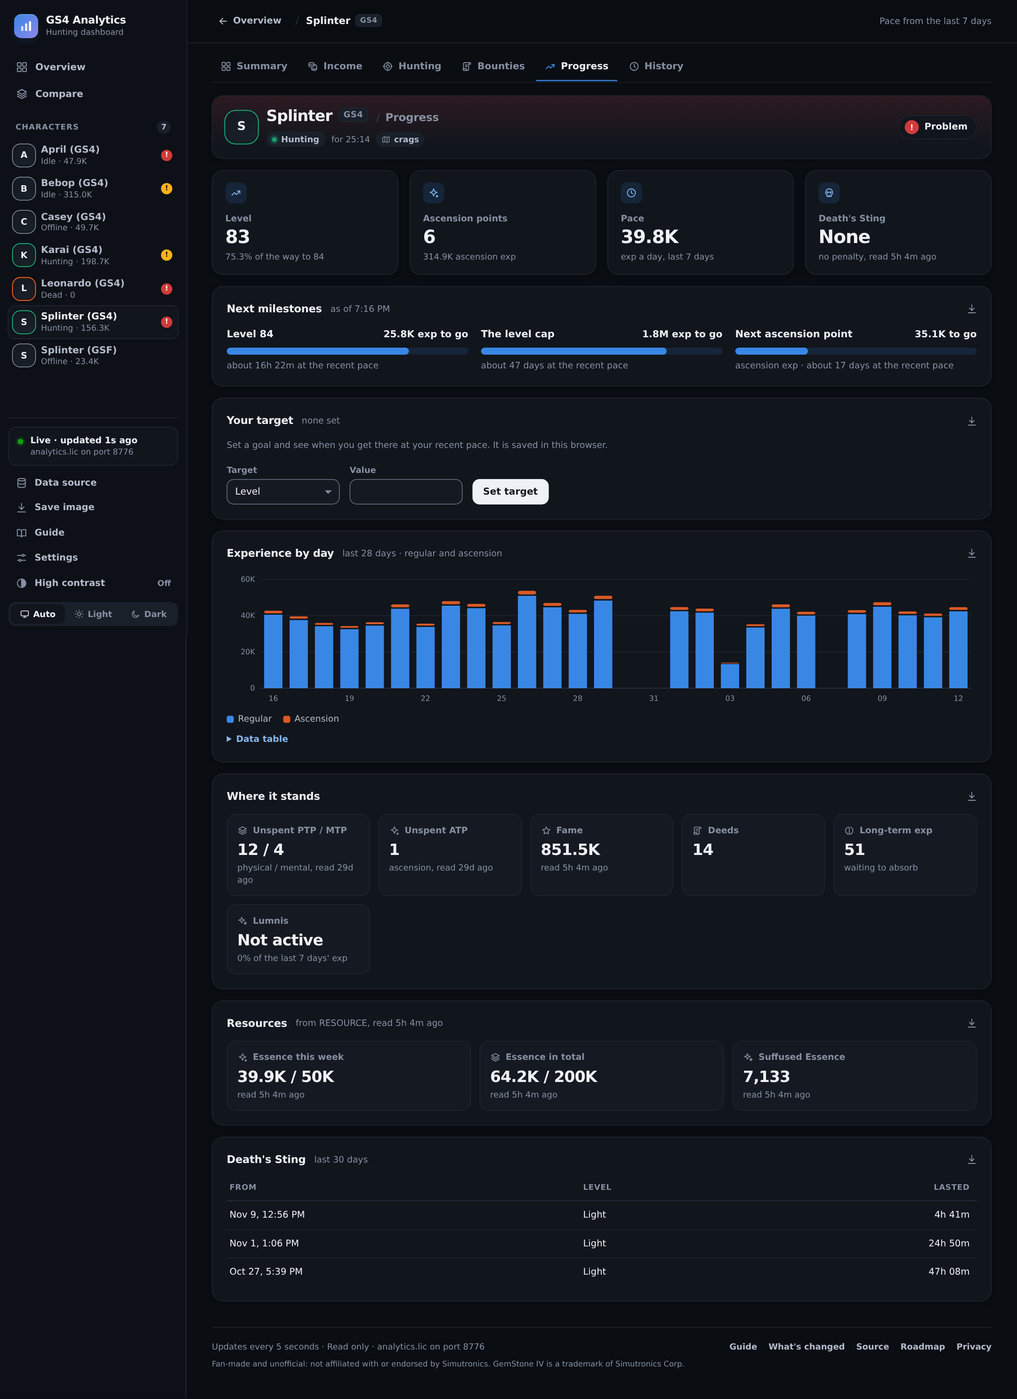
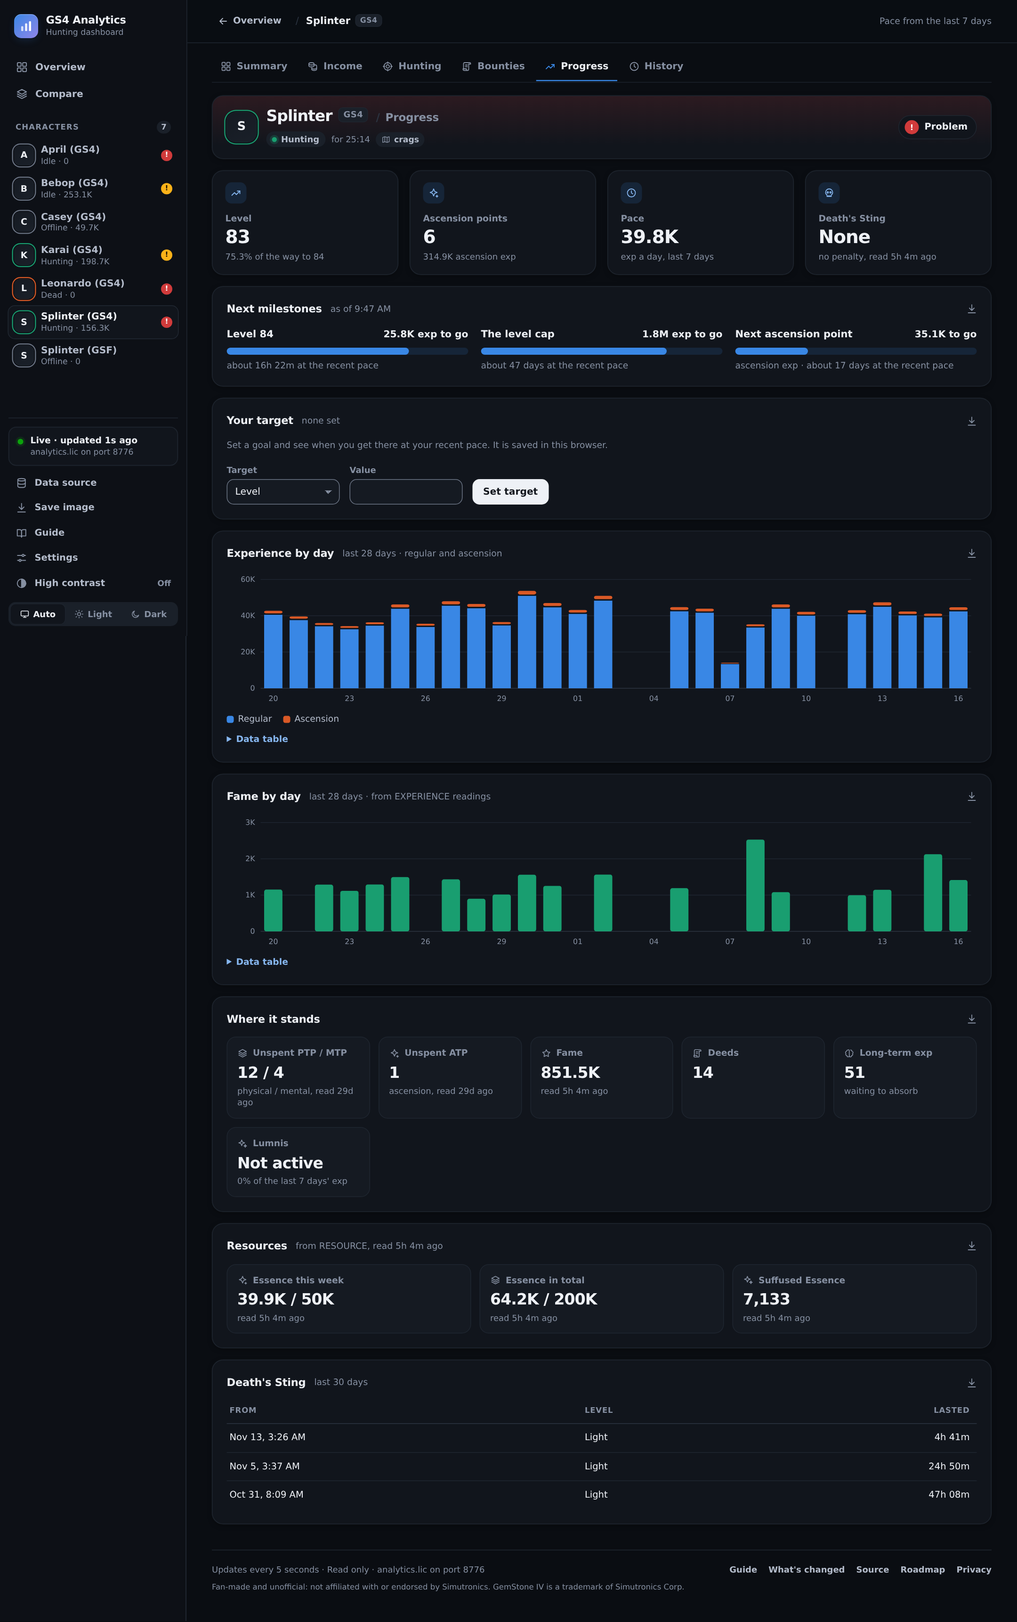
fix(aggregate): fame by day from the readings, and no fame per cycle
Fame rises as experience is absorbed, resting too, and a cycle took fame
only from a reading in the two minutes before its boundary. Rest scripts
type EXPERIENCE as a rest starts, so a hunt never had an end reading and
most rests had no start: on a three-day, two-character database the daily
fame from cycles came to 0.1 to 3.4% of the real change.

buildDaily's fame is now each day's last EXPERIENCE reading less the last
one before it, charted on the Progress page. History drops its Fame column.

diff --git a/site/guide/index.html b/site/guide/index.html
@@ -197,7 +197,7 @@
             <b>Bank checks</b> list every <code>BANK ACCOUNT</code> listing that found your banks at a different total from the one tracked through the teller, and by how much: a deposit by another character, a note or a transfer moves the banks without a teller line being read. Silver per hour counts those differences like any other change, so they're shown rather than hidden. Under <b>Locksmith pool</b>, how many of its boxes the pool holds, how that changed over the range, the peak, and how many boxes a full pool turned away, by town.</li>
           <li><b>Hunting</b>: every creature: kills, silver a kill, boxes per 100 kills, the profile and the last kill. Under <b>Combat</b>, the damage the character dealt to each kind of creature, its credited kills and assists, damage per creature, per kill and per hit, and per hour hunting (see <a href="#combat">Combat</a>).</li>
           <li><b>Bounties</b>: by type: how many taken and done, success, average time, and silver, exp and bounty points each; and how task offers ended.</li>
-          <li><b>Progress</b>: level (or training points past the cap) and ascension points with ETAs at your recent pace, experience by day split into regular and ascension, unspent training points, fame, deeds, Lumnis, Death's Sting with how long each lasted (from the death to the moment it faded), and your resources from <code>RESOURCE</code> (your profession's resource this week and in total, suffused, Voln favor, covert arts charges, shadow essence), each with when it was read.
+          <li><b>Progress</b>: level (or training points past the cap) and ascension points with ETAs at your recent pace, experience by day split into regular and ascension, fame by day, unspent training points, fame, deeds, Lumnis, Death's Sting with how long each lasted (from the death to the moment it faded), and your resources from <code>RESOURCE</code> (your profession's resource this week and in total, suffused, Voln favor, covert arts charges, shadow essence), each with when it was read.
             Set <b>your own target</b> there (a level, a number of training points past the cap, or ascension points) to see how much is left and when you'll get there; it's saved in this browser.</li>
           <li><b>History</b>: every hunt, rest, death and idle stretch, newest first, with a filter and a search.</li>
         </ul>
@@ -381,7 +381,7 @@ alerts:                                # in-game and Discord alerts
           <li><b>Midnight</b> is in the time zone of the browser the dashboard is open in. The text reports and the daily digest use the time zone of the computer Lich runs on; the dashboard warns when the two differ. Hunts, rests and idle time are split at midnight, so a session that runs past it counts toward each day for its own part.</li>
           <li><b>Silver per hour</b> comes from your bank balance, so it counts everything you deposit, whatever its source. It's how much the bank total went up in the range, divided by the hours the script ran in it: hunting, resting and idle together. Time logged out doesn't count against you. <b>Experience per hour</b> works the same way, from your total experience. Per hunting hour divides by hunting time only. A hunt or rest still going counts up to now, to the minute, so the figures move as you play. A figure needs a few minutes behind it before it's shown: per hour shows <code>--</code> until the script has run 10 minutes in the range. Hunt 2 hours and rest 1 hour, bank 300,000 silver, and Today shows 100,000 silver per hour, on the overview's card and on the character's Summary alike.</li>
           <li><b>Creature silver</b> counts what a corpse had when you searched it. Coins picked up off the floor (<code>GET COINS</code>, as eloot does) are their own source, "Coins off the floor". A creature that melts or crumbles when searched drops its coins, and the game gathers them for you; those are the corpse's silver, counted once.</li>
-          <li><b>Fame</b> is only as fresh as the last <code>EXPERIENCE</code> output Lich saw, and a hunt or rest gets fame only from output seen in the last two minutes. To see fame per hunt and rest, have your rest script run <code>EXPERIENCE</code>. The Progress page says when each reading was taken.</li>
+          <li><b>Fame</b> is only as fresh as the last <code>EXPERIENCE</code> output Lich saw; the Progress page says when it was read. Fame by day is each day's last reading less the last one before it, so a day with no reading shows none, and fame from the night before a day's first reading counts on that day. Have your rest script run <code>EXPERIENCE</code> to keep it current. Fame isn't shown per hunt or rest: it rises as experience is absorbed, resting too, so it would need a reading at both ends of every one.</li>
           <li><b>Death's Sting</b> runs from the death to the moment the game says it has faded. Its level is the last <code>EXPERIENCE</code> reading in between; if none came, the level shows as "not read".</li>
           <li><b>A hunt that ends with no rest</b>, for example when you <code>;kill</code> the hunting script, is recorded with the reason "hunt stopped". It isn't counted as a crash. A crash is a hunt, rest or idle stretch still open when the script next starts, because Lich, the computer or the connection went down. The script closes it then, at the time its login was last seen or at the next stretch's start, whichever came first, and marks it "crashed" (a rest keeps the reason it started for, so a crash during one with a reason isn't counted). When it ends at the next stretch's start, it takes its closing experience from there, so what it gained still counts.</li>
           <li><b>Bounties</b> are stored once hunting starts on them; a task you remove at the taskmaster still shows in <b>task offers</b>. Progress follows the game's "N more" text.</li>

diff --git a/site/js/aggregate/details.js b/site/js/aggregate/details.js
@@ -289,7 +289,7 @@ export function buildHistory(conn, id, range, { now, ranges, limit = 400 }) {
   const who = parseWho(id);
   const { label, from } = window(range, now, ranges);
   const rows = conn.all('SELECT cycle_id, cycle_type, start_time, end_time, duration_seconds, rest_reason, profile, ' +
-    'exp_total_start, exp_total_end, fame_start, fame_end FROM cycles WHERE game = ? AND character = ? ' +
+    'exp_total_start, exp_total_end FROM cycles WHERE game = ? AND character = ? ' +
     'AND start_time >= ? AND start_time <= ? ORDER BY start_time DESC LIMIT ?', ...who, from, now, limit);
   const silver = new Map();
   if (rows.length && hasColumn(conn, 'bank_snapshots', 'cycle_id')) {
@@ -308,7 +308,7 @@ export function buildHistory(conn, id, range, { now, ranges, limit = 400 }) {
       stale: r.end_time == null && now - toI(r.start_time) >= STALE_OPEN,
       seconds: r.end_time != null ? toI(r.duration_seconds) : now - toI(r.start_time) >= STALE_OPEN ? null : Math.max(0, now - toI(r.start_time)),
       reason: r.rest_reason || null, profile: r.profile ? shortProfile(r.profile, who[1]) : null,
-      exp: gain(r.exp_total_start, r.exp_total_end), fame: gain(r.fame_start, r.fame_end),
+      exp: gain(r.exp_total_start, r.exp_total_end),
       silver: silver.has(r.cycle_id) ? silver.get(r.cycle_id) : null,
     })),
     truncated: rows.length >= limit,
@@ -319,11 +319,16 @@ export function buildHistory(conn, id, range, { now, ranges, limit = 400 }) {
 
 // Experience gained per local day for the last +days+ days, per character.
 // A cycle's gain counts on the day it started (cycles never span midnight).
+// Fame comes from the EXPERIENCE readings instead: it rises as experience is
+// absorbed, resting too, so a cycle's fame is known only when a reading was
+// typed at both its ends, and rest scripts don't. A day's fame is its last
+// reading less the last one before it (or its first, with none before).
 export function buildDaily(conn, ids, { now, days = 28 }) {
   const today = dayOf(now);
   const first = addDays(today, -(days - 1));
   const from = midnight(first);
   const split = hasColumn(conn, 'cycles', 'exp_asc_start');
+  const readings = hasColumn(conn, 'progress', 'fame');
   const labels = [];
   for (let i = 0; i < days; i++) labels.push(dayStr(addDays(first, i)));
   const index = new Map(labels.map((l, i) => [l, i]));
@@ -331,7 +336,7 @@ export function buildDaily(conn, ids, { now, days = 28 }) {
   for (const id of ids) {
     const who = parseWho(id);
     const exp = new Array(days).fill(0), asc = new Array(days).fill(0), fame = new Array(days).fill(0), hunt = new Array(days).fill(0);
-    const rows = conn.all('SELECT cycle_type, start_time, duration_seconds, exp_total_start, exp_total_end, fame_start, fame_end' +
+    const rows = conn.all('SELECT cycle_type, start_time, duration_seconds, exp_total_start, exp_total_end' +
       (split ? ', exp_asc_start, exp_asc_end' : '') + ' FROM cycles WHERE game = ? AND character = ? AND start_time >= ? AND start_time <= ?',
     ...who, from, now);
     for (const r of rows) {
@@ -339,8 +344,19 @@ export function buildDaily(conn, ids, { now, days = 28 }) {
       if (i == null) continue;
       if (r.exp_total_start != null && r.exp_total_end != null) exp[i] += Math.max(0, toI(r.exp_total_end) - toI(r.exp_total_start));
       if (split && r.exp_asc_start != null && r.exp_asc_end != null) asc[i] += Math.max(0, toI(r.exp_asc_end) - toI(r.exp_asc_start));
-      if (r.fame_start != null && r.fame_end != null) fame[i] += Math.max(0, toI(r.fame_end) - toI(r.fame_start));
       if (r.cycle_type === 'hunt') hunt[i] += toI(r.duration_seconds);
+    }
+    if (readings) {
+      const base = new Map(), last = new Map();
+      let prev = null;
+      for (const r of conn.all('SELECT timestamp, fame FROM progress WHERE game = ? AND character = ? AND fame IS NOT NULL ' +
+        'AND timestamp <= ? ORDER BY timestamp', ...who, now)) {
+        const day = dateOf(toI(r.timestamp)), f = toI(r.fame);
+        if (!base.has(day)) base.set(day, prev ?? f);
+        last.set(day, f);
+        prev = f;
+      }
+      labels.forEach((l, i) => { if (last.has(l)) fame[i] = Math.max(0, last.get(l) - base.get(l)); });
     }
     series[id] = { exp, ascension: split ? asc : null, regular: split ? exp.map((v, i) => Math.max(0, v - asc[i])) : null, fame, hunt_s: hunt };
   }

diff --git a/site/js/ui/sections.js b/site/js/ui/sections.js
@@ -291,6 +291,11 @@ export function progressHtml(d, width, ui) {
     : [{ name: 'Experience', values: s.exp, color: '--k1' }];
   var chart = '<section class="card">' + head('Experience by day', 'last ' + dl.labels.length + ' days' + (dl.split ? ' ' + DOT + ' regular and ascension' : '')) +
     barChart('progress-daily', dl.labels, series, short, width, 'Experience by day') + '</section>';
+  // From the EXPERIENCE readings: a day with none shows nothing
+  if (s.fame.some(function (v) { return v > 0; })) {
+    chart += '<section class="card">' + head('Fame by day', 'last ' + dl.labels.length + ' days ' + DOT + ' from EXPERIENCE readings') +
+      barChart('progress-fame', dl.labels, [{ name: 'Fame', values: s.fame, color: '--k3' }], short, width, 'Fame by day') + '</section>';
+  }
   var stings = p.stings.length ? '<section class="card">' + head('Death\'s Sting', 'last 30 days') + scroll('Death\'s Sting') +
     '<table><thead><tr><th>From</th><th class="l">Level</th><th>Lasted</th></tr></thead><tbody>' + p.stings.map(function (x) {
       return '<tr><td>' + stamp(x.from) + '</td><td class="l">' + (x.level == null ? '<span class="muted">not read</span>' : esc(x.level)) + '</td><td>' + (x.to ? dur(x.seconds) : dur(x.seconds) + ' so far') + '</td></tr>';
@@ -299,12 +304,12 @@ export function progressHtml(d, width, ui) {
 }
 
 // ---- history ------------------------------------------------------------------
-// Which columns have anything in them (an older database has no fame or per-cycle silver)
+// Which columns have anything in them (an older database has no per-cycle silver)
 export function historyCols(cycles) {
-  return { fame: cycles.some(function (c) { return c.fame != null; }), silver: cycles.some(function (c) { return c.silver != null; }) };
+  return { silver: cycles.some(function (c) { return c.silver != null; }) };
 }
 export function historyRows(cycles, filter) {
-  var cols = historyCols(cycles), span = 5 + (cols.fame ? 1 : 0) + (cols.silver ? 1 : 0);
+  var cols = historyCols(cycles), span = 5 + (cols.silver ? 1 : 0);
   var q = String(filter.q || '').toLowerCase();
   var shown = cycles.filter(function (c) {
     if (filter.type !== 'all' && c.type !== filter.type) return false;
@@ -314,7 +319,7 @@ export function historyRows(cycles, filter) {
   return { count: shown.length, html: shown.map(function (c) {
     return '<tr><td>' + stamp(c.start) + '</td><td class="l"><span class="state st-' + esc(c.type) + '"><i style="background:' + css(STATE_COL[c.type] || '--gray') + '"></i>' +
       esc(STATE_NAME[c.type] || c.type) + '</span></td><td>' + (c.stale ? '<span class="muted">ended, time unknown</span>' : c.end == null ? dur(c.seconds) + ' so far' : dur(c.seconds)) + '</td><td class="l wrapcell">' +
-      esc(c.reason || c.profile || '') + '</td><td>' + (c.exp == null ? '--' : short(c.exp)) + '</td>' + (cols.fame ? '<td>' + (c.fame == null ? '--' : short(c.fame)) + '</td>' : '') +
+      esc(c.reason || c.profile || '') + '</td><td>' + (c.exp == null ? '--' : short(c.exp)) + '</td>' +
       (cols.silver ? '<td>' + (c.silver == null ? '--' : short(c.silver)) + '</td>' : '') + '</tr>';
   }).join('') };
 }
@@ -328,7 +333,7 @@ export function historyHtml(d, filter) {
       opt('dead', 'Deaths') + opt('idle', 'Idle') + '</select></label>' +
     '<label class="fl grow"><span>Search reasons and profiles</span><input id="histQ" type="search" autocomplete="off" value="' + esc(filter.q || '') + '" placeholder="e.g. encumbered"></label>' +
     '<span class="fl-count" id="histCount" role="status">' + plural(rows.count, 'row') + (d.truncated ? ' (the newest ' + d.cycles.length + ')' : '') + '</span></div>' +
-    scroll('Every hunt and rest') + '<table><thead><tr><th>Started</th><th class="l">What</th><th>Length</th><th class="l">Reason or profile</th><th>Exp</th>' + (cols.fame ? '<th>Fame</th>' : '') + (cols.silver ? '<th>Silver</th>' : '') + '</tr></thead>' +
+    scroll('Every hunt and rest') + '<table><thead><tr><th>Started</th><th class="l">What</th><th>Length</th><th class="l">Reason or profile</th><th>Exp</th>' + (cols.silver ? '<th>Silver</th>' : '') + '</tr></thead>' +
     '<tbody id="histBody">' + rows.html + '</tbody></table></div></section>';
 }
 

diff --git a/test/details.test.js b/test/details.test.js
@@ -93,6 +93,32 @@ test('daily: 28 days ending today, adding up to the cycles that started in them'
   assert.ok(d.series[ID].regular.every((v, i) => v + d.series[ID].ascension[i] === d.series[ID].exp[i]));
 });
 
+test('daily fame: each day\'s last EXPERIENCE reading less the last one before it, not the cycles', () => {
+  const d = new SQL.Database();
+  try {
+    d.run('CREATE TABLE progress (game TEXT, character TEXT, timestamp INTEGER, fame INTEGER)');
+    // cycle fame the script wrote from stale readings: not used
+    d.run('CREATE TABLE cycles (cycle_id TEXT, game TEXT, character TEXT, cycle_type TEXT, start_time INTEGER, end_time INTEGER, ' +
+      'duration_seconds INTEGER, exp_total_start INTEGER, exp_total_end INTEGER, fame_start INTEGER, fame_end INTEGER)');
+    const at = (day, hour) => Math.floor(new Date(`2027-03-${day}T${hour}:00:00`).getTime() / 1000);
+    const read = (t, fame) => d.run("INSERT INTO progress VALUES ('GS3', 'Rocksteady', ?, ?)", [t, fame]);
+    read(at('08', '22'), 400);  // before the window's last three days: the base for none of them
+    read(at('10', '10'), 500);
+    read(at('10', '15'), null); // a heartbeat row: no reading
+    read(at('10', '20'), 650);
+    // the 11th: no reading
+    read(at('12', '09'), 700);
+    read(at('12', '23'), 900);
+    d.run("INSERT INTO cycles VALUES ('c1', 'GS3', 'Rocksteady', 'rest', ?, ?, 600, 0, 0, 100, 99999)", [at('12', '10'), at('12', '10') + 600]);
+    const now = at('12', '23') + 1800;
+    const f = buildDaily(new Conn(d), ['GS3:Rocksteady'], { now, days: 5 }).series['GS3:Rocksteady'].fame;
+    // the 8th: 400 with none before; the 10th: 650 - 400; the 12th: 900 - 650
+    assert.deepEqual(f, [0, 0, 250, 0, 250]);
+  } finally {
+    d.close();
+  }
+});
+
 test('progress, before the cap: level and the share of it done, from the last row', () => {
   const p = buildProgress(conn, ID, { now });
   const last = one('SELECT level, exp FROM progress WHERE game = ? AND character = ? ORDER BY timestamp DESC LIMIT 1', ...W);

diff --git a/site/guide/changes.html b/site/guide/changes.html
@@ -58,6 +58,12 @@
     <!-- Newest first. One section per release, id="v<version>" (script releases) or
          id="d<yyyy-mm-dd>" (a dashboard-only change). Mark each item Script or Dashboard.
          Write for players: what changed, and what to do about it, if anything. -->
+    <section id="d2026-11-16-fame" class="card">
+      <h2>November 16, 2026 &middot; dashboard</h2>
+      <ul>
+        <li><span class="chip">Dashboard</span> The Progress page has <b>fame by day</b>, from your <code>EXPERIENCE</code> readings. History no longer has a Fame column: fame rises as experience is absorbed, resting too, so a hunt's or rest's fame is known only when <code>EXPERIENCE</code> was typed right at both its ends, which rest scripts don't do. The column showed a number for a few cycles, and too little for most.</li>
+      </ul>
+    </section>
     <section id="d2026-11-12-live" class="card">
       <h2>November 12, 2026 &middot; dashboard</h2>
       <ul>

diff --git a/docs/data-contract.md b/docs/data-contract.md
@@ -24,7 +24,7 @@ URL hash, the saved image's file name) and maps back at its edges (`shown`, `sho
 
 | Table | Columns used | For |
 |---|---|---|
-| `cycles` | `game`, `character`, `cycle_type` (`hunt`/`rest`/`idle`/`dead`), `start_time`, `end_time` (NULL while open), `duration_seconds`, `rest_reason` (on a hunt, why it ended; `hunt stopped` for one that ended with no rest; `crashed` on any cycle the script found still open at its next start, unless it had a reason), `profile`, `exp_total_start`, `exp_total_end`, `exp_field_start`, `exp_field_end`, `exp_field_max`, `encumbrance_start`; and for the detail pages `cycle_id`, `fame_start`, `fame_end`, `exp_asc_start`, `exp_asc_end` (schema 8) | State, timeline, today's figures, pace, trends, hunting grounds, labels; History; experience by day, regular and ascension apart |
+| `cycles` | `game`, `character`, `cycle_type` (`hunt`/`rest`/`idle`/`dead`), `start_time`, `end_time` (NULL while open), `duration_seconds`, `rest_reason` (on a hunt, why it ended; `hunt stopped` for one that ended with no rest; `crashed` on any cycle the script found still open at its next start, unless it had a reason), `profile`, `exp_total_start`, `exp_total_end`, `exp_field_start`, `exp_field_end`, `exp_field_max`, `encumbrance_start`; and for the detail pages `cycle_id`, `exp_asc_start`, `exp_asc_end` (schema 8); `fame_start` and `fame_end` are written but not read (fame by day comes from `progress`) | State, timeline, today's figures, pace, trends, hunting grounds, labels; History; experience by day, regular and ascension apart |
 | `bank_snapshots` | `game`, `character`, `timestamp`, `bank_name` (`'__total__'` rows only), `delta_silver` | Silver: pace, range totals, trends, login figures; labels |
 | `kill_stats` | `game`, `character`, `date` (local `YYYY-MM-DD`), `profile`, `kill_count`, `total_silver`, `last_kill_at` | Kills, last kill, hunting grounds |
 | `bounties` | `game`, `character`, `bounty_type`, `creature`, `area`, `status` (`active`/`completed`/`abandoned`/`expired`), `received_time`, `completed_time`, `count_required`, `count_completed`, `silver_reward`, `exp_reward` | Active bounty, typical durations, range totals, recent bounties, trends |
@@ -67,7 +67,7 @@ empty section, never an error.
 | `combat_stats` (schema 11) | `creature`, `start_time` (the cycle's), `fought`, `kills`, `assists`, `damage`, `hits`, `kill_damage`; `kill_stats.creature` to file a recorder's name ("cadaverous tatterdemalion ghast") under the searched one it ends with | Hunting's Combat card; Compare's Combat |
 | `bounties` | `bp_reward` as well as the columns above | Bounties: points each and an hour |
 | `bank_snapshots` | `cycle_id`; and `snapshot_type`, `balance`, `delta_silver` on `'__total__'` rows that aren't `deposit`, `withdraw` or `unstated` | History: silver per cycle; Income's bank checks (a listing's `delta_silver` is how far it was from the tracked total) |
-| `progress` (schema 8; WITHOUT ROWID from 9) | `timestamp`, `level`, `exp`, `ascension_exp`, `lumnis`, `rpa` on every row; `fame`, `deeds`, `long_term_exp`, `deaths_sting` only on a row an EXPERIENCE reading came before, and `ptp`, `mtp`, `atp` only on the row after they were shown (schema 9; NULL means "not read", never zero) | Progress: level or training points, ascension points, pace and ETAs, the latest of each reading and when it was read, Lumnis share |
+| `progress` (schema 8; WITHOUT ROWID from 9) | `timestamp`, `level`, `exp`, `ascension_exp`, `lumnis`, `rpa` on every row; `fame`, `deeds`, `long_term_exp`, `deaths_sting` only on a row an EXPERIENCE reading came before, and `ptp`, `mtp`, `atp` only on the row after they were shown (schema 9; NULL means "not read", never zero) | Progress: level or training points, ascension points, pace and ETAs, the latest of each reading and when it was read, Lumnis share, fame by day |
 | `progress` (schema 10) | `resource_name`, `resource_weekly`, `resource_total`, `suffused`, `voln_favor`, `covert_arts_charges`, `shadow_essence`: a RESOURCE reading, on its own row | Progress: the latest resources, and when they were read |
 | `progress` and `cycles` | `deaths_sting` readings (a `'None'` row is written when the sting wears off; from schema 10 each EXPERIENCE reading is its own row at the moment it was shown), and the start of each `dead` cycle | Death's Sting: each stretch from the death to the next None, its level the last reading between |
 

diff --git a/docs/decisions.md b/docs/decisions.md
@@ -2,6 +2,24 @@
 
 Newest first. Each entry: the decision, why, and what was rejected.
 
+## 2026-11-16: Fame by day from the readings, and no fame per cycle
+
+**Decision.** History has no Fame column. `buildDaily`'s `fame` comes from the `progress`
+EXPERIENCE readings, not the cycles: a day's fame is its last reading less the last reading
+before it (its first, with none before), and the Progress page charts it. The script still
+writes `cycles.fame_start`/`fame_end`; the page doesn't read them.
+
+**Why.** The analytics10 audit (two characters, three days): fame rises as experience is
+absorbed, resting too (Tysong +128 fame in 31 s of resting, no bounty), and a cycle took
+fame only from a reading in the two minutes before its boundary. Rest scripts type
+EXPERIENCE as a rest starts, so a hunt never had an end reading and most rests had no start;
+daily fame from cycles came to 0.1 to 3.4% of the real change. A reading at both ends of
+every cycle is the only exact per-cycle figure, and the script sends no commands.
+
+**Rejected.**
+- Backfilling a boundary from the reading just after it: a rest's end still has none.
+- Putting fame from one rest start to the next on the hunt: it includes the rest's.
+
 ## 2026-11-12: BSD 3-Clause, a privacy section, and an unofficial-tool line
 
 **Decision.** The repo is BSD 3-Clause licensed (`LICENSE`, `package.json`), copyright
@@ -241,8 +259,8 @@ so the new pages add two more of them (bars by day, labelled bars) instead.
 **Rejected.**
 - Refreshing a page while the reader types in its filter. The History filter redraws only
   its table, and `write()` puts focus and the caret back after a live refresh.
-- Showing per-cycle fame and silver columns when no row has them. They appear only when
-  the data does.
+- Showing a per-cycle silver column when no row has it. It appears only when the data
+  does. (Per-cycle fame is gone: see 2026-11-16.)
 
 ## 2026-11-06: Accessibility pass, and a high-contrast mode
 
